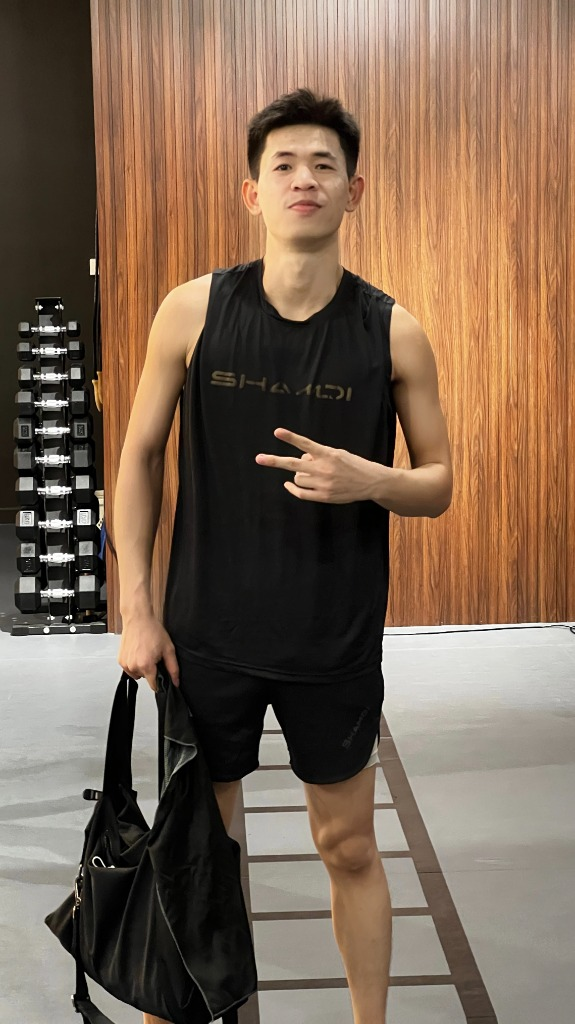
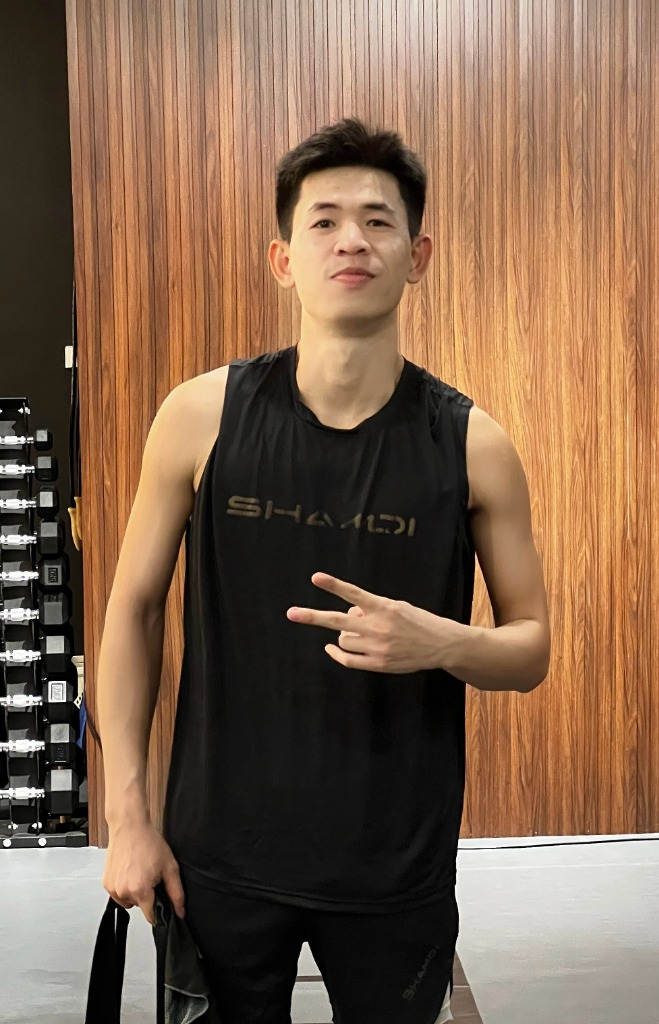
Update photo 2 with cropped gym photo and remove bottom text bars from photo cards in Hero

diff --git a/app/page.tsx b/app/page.tsx
@@ -140,7 +140,7 @@ export default function Home() {
           </p>
 
           {/* Image Comparison Box (Đạt thời hút thuốc → Đạt hiện tại) */}
-          <div style={{ maxWidth: "600px", margin: "0 auto 40px", position: "relative" }}>
+          <div style={{ maxWidth: "580px", margin: "0 auto 40px", position: "relative" }}>
             {/* Top Connector Arrow */}
             <div style={{ display: "flex", justifyContent: "center", alignItems: "center", marginBottom: "14px" }}>
               <span style={{ background: "#252B25", color: "#D96732", border: "1px solid #384238", fontSize: "13px", fontWeight: 700, padding: "5px 16px", borderRadius: "20px", display: "inline-flex", alignItems: "center", gap: "8px", boxShadow: "0 4px 15px rgba(0,0,0,0.2)" }}>
@@ -152,31 +152,21 @@ export default function Home() {
 
             <div style={{ display: "grid", gridTemplateColumns: "1fr 1fr", gap: "16px", alignItems: "stretch" }}>
               {/* Photo 1: Đạt thời hút thuốc (BW) */}
-              <div style={{ overflow: "hidden", borderRadius: "12px", border: "1px solid #384238", background: "#252B25", boxShadow: "0 12px 30px rgba(0,0,0,0.4)", display: "flex", flexDirection: "column" }}>
-                <div style={{ flexGrow: 1, overflow: "hidden" }}>
-                  <img
-                    src="/images/dat_before_bw.jpg"
-                    alt="Đạt thời hút thuốc"
-                    style={{ width: "100%", height: "340px", objectFit: "cover", display: "block", filter: "grayscale(100%) contrast(110%)" }}
-                  />
-                </div>
-                <div style={{ padding: "12px", background: "#1C201C", color: "#A9B2AC", fontSize: "13px", fontWeight: 700, textAlign: "center", borderTop: "1px solid #384238" }}>
-                  Đạt thời hút thuốc
-                </div>
+              <div style={{ overflow: "hidden", borderRadius: "12px", border: "1px solid #384238", background: "#252B25", boxShadow: "0 12px 30px rgba(0,0,0,0.4)" }}>
+                <img
+                  src="/images/dat_before_bw.jpg"
+                  alt="Đạt thời hút thuốc"
+                  style={{ width: "100%", height: "340px", objectFit: "cover", display: "block", filter: "grayscale(100%) contrast(110%)" }}
+                />
               </div>
 
               {/* Photo 2: Đạt hiện tại (Gym fit) */}
-              <div style={{ overflow: "hidden", borderRadius: "12px", border: "2px solid #D96732", background: "#252B25", boxShadow: "0 12px 30px rgba(217,103,50,0.25)", display: "flex", flexDirection: "column" }}>
-                <div style={{ flexGrow: 1, overflow: "hidden" }}>
-                  <img
-                    src="/images/dat_after_gym.jpg"
-                    alt="Đạt hiện tại"
-                    style={{ width: "100%", height: "340px", objectFit: "cover", display: "block" }}
-                  />
-                </div>
-                <div style={{ padding: "12px", background: "#D96732", color: "white", fontSize: "13px", fontWeight: 800, textAlign: "center" }}>
-                  Đạt hiện tại
-                </div>
+              <div style={{ overflow: "hidden", borderRadius: "12px", border: "2px solid #D96732", background: "#252B25", boxShadow: "0 12px 30px rgba(217,103,50,0.25)" }}>
+                <img
+                  src="/images/dat_after_gym.jpg"
+                  alt="Đạt hiện tại"
+                  style={{ width: "100%", height: "340px", objectFit: "cover", display: "block" }}
+                />
               </div>
             </div>
           </div>
